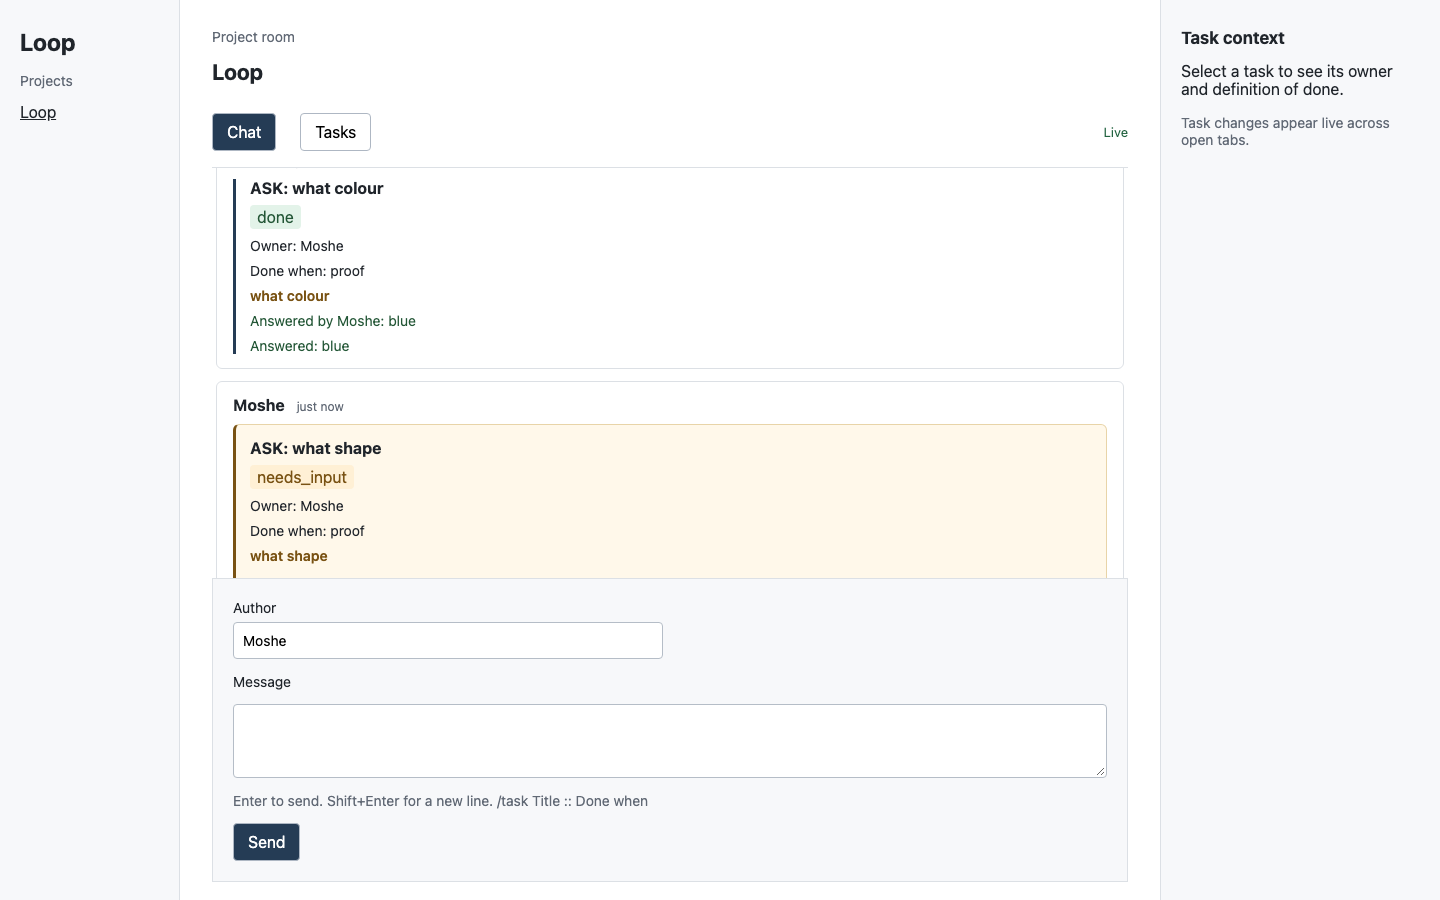
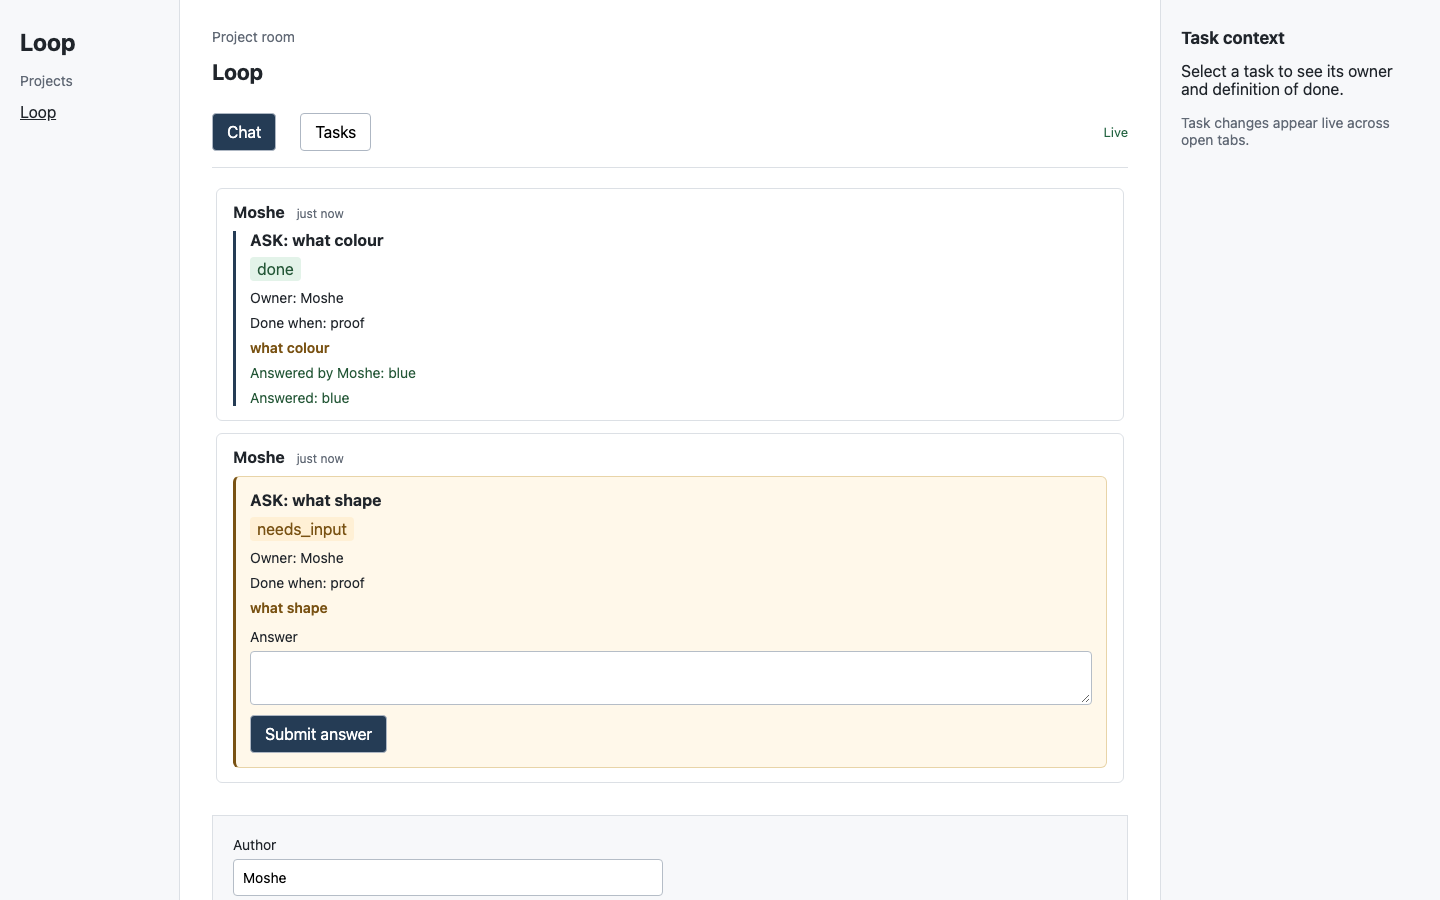
pin the question: the answer form is reachable, not clipped (#9)

Changed region(s): [[0.1562, 0.1867, 0.7812, 0.9956]]

diff --git a/apps/web/components/Transcript.tsx b/apps/web/components/Transcript.tsx
@@ -1,16 +1,35 @@
 'use client';
 
-import { useLayoutEffect, useRef } from 'react';
+import { useEffect, useLayoutEffect, useRef } from 'react';
 import type { Message, Task } from '@loop/types';
 import MessageCard from './MessageCard';
 
 export default function Transcript({ messages, tasks, author }: { messages: Message[]; tasks: Task[]; author: string }) {
   const container = useRef<HTMLDivElement>(null);
   const follow = useRef(true);
+  const pinned = useRef(new Set<string>());
   useLayoutEffect(() => {
     const element = container.current;
     if (element && follow.current) element.scrollTop = element.scrollHeight;
   }, [messages, tasks]);
+  // UI.md: a question is pinned until answered. Following alone is not enough.
+  // An answered card shrinks when its form unmounts, which leaves `follow` stuck
+  // false, so a later parked card never scrolls into view. Re-arm on a new one.
+  useEffect(() => {
+    const waiting = tasks.filter((task) => task.status === 'needs_input').map((task) => task.id);
+    const fresh = waiting.some((id) => !pinned.current.has(id));
+    pinned.current = new Set(waiting);
+    if (!fresh) return;
+    // After paint: the answer form mounts in this same commit, and scrolling to a
+    // height measured before it renders lands short of the form.
+    const frame = requestAnimationFrame(() => {
+      const element = container.current;
+      if (!element) return;
+      follow.current = true;
+      element.scrollTop = element.scrollHeight;
+    });
+    return () => cancelAnimationFrame(frame);
+  }, [tasks]);
   const byId = new Map(tasks.map((task) => [task.id, task]));
   return <div className="transcript" ref={container} role="log" aria-label="Room transcript" tabIndex={0}
     onScroll={(event) => {

diff --git a/apps/web/app/globals.css b/apps/web/app/globals.css
@@ -5,7 +5,11 @@ body { margin: 0; }
 aside { padding: 28px 20px; background: #f7f8fa; }
 .projects { border-right: 1px solid #dce0e5; }
 .context { border-left: 1px solid #dce0e5; }
-main { padding: 28px 32px; min-width: 0; }
+main { padding: 28px 32px; min-width: 0; display: flex; flex-direction: column; min-height: 100vh; }
+/* The chat section owns the leftover height so the transcript can never overlap
+   the composer. A hardcoded transcript height guesses the composer's size and
+   clipped the answer form under it. */
+main > section[aria-label="Chat"] { display: flex; flex-direction: column; flex: 1; min-height: 0; }
 h1, h2, h3, p { margin-top: 0; }
 h1 { font-size: 24px; }
 h2 { font-size: 22px; }
@@ -40,7 +44,7 @@ th, td { padding: 14px 8px; border-bottom: 1px solid #e2e6eb; vertical-align: to
 .task-detail p { white-space: pre-wrap; }
 #task-context:has(.task-detail) > p { display: none; }
 [role="alert"] { color: #963737; }
-.transcript { height: max(240px, calc(100dvh - 490px)); overflow-y: auto; padding: 20px 4px; overflow-anchor: none; }
+.transcript { flex: 1; min-height: 240px; overflow-y: auto; padding: 20px 4px; overflow-anchor: none; }
 .message-card { padding: 14px 16px; margin-bottom: 12px; border: 1px solid #dce0e5; border-radius: 6px; overflow-wrap: anywhere; }
 .message-meta { display: flex; gap: 12px; align-items: baseline; margin-bottom: 10px; }
 .message-meta time { font-size: 12px; color: #616975; }

diff --git a/tests/question-card.spec.ts b/tests/question-card.spec.ts
@@ -70,6 +70,10 @@ test('question card answers in the browser and the same task reaches done', asyn
     await expect(colourCard.locator('[data-task-result]')).toHaveText('Answered: blue');
     await expect(shapeCard.locator('.tp-chip')).toHaveText('needs_input');
     await expect(shapeCard).toHaveClass(/question-card/);
+    // A pinned question is useless if you cannot reach its submit button.
+    // toBeInViewport alone passes on a sliver, so assert the whole control.
+    await expect(shapeCard.getByLabel('Answer')).toBeInViewport({ ratio: 1 });
+    await expect(shapeCard.getByRole('button', { name: 'Submit answer', exact: true })).toBeInViewport({ ratio: 1 });
 
     await page.screenshot({ path: resolve('docs/screenshots/room-chat.png') });
   } finally {

diff --git a/EVIDENCE.md b/EVIDENCE.md
@@ -2,7 +2,7 @@
 
 Generated by `npm run evidence` from repository facts plus the lint, test, and build commands.
 Browser tests are listed by spec name and are not executed here.
-Parent commit: 8545b3004e9ba13c0511eae7edf7ca3d46e60589
+Parent commit: d22e333919826158d412c17d0e25e0a4edaca41d
 The recorded SHA is the commit the generator ran against. This file is committed afterwards, so the SHA is the parent of the evidence commit. The staleness gate ignores that line.
 
 ## Workspaces
